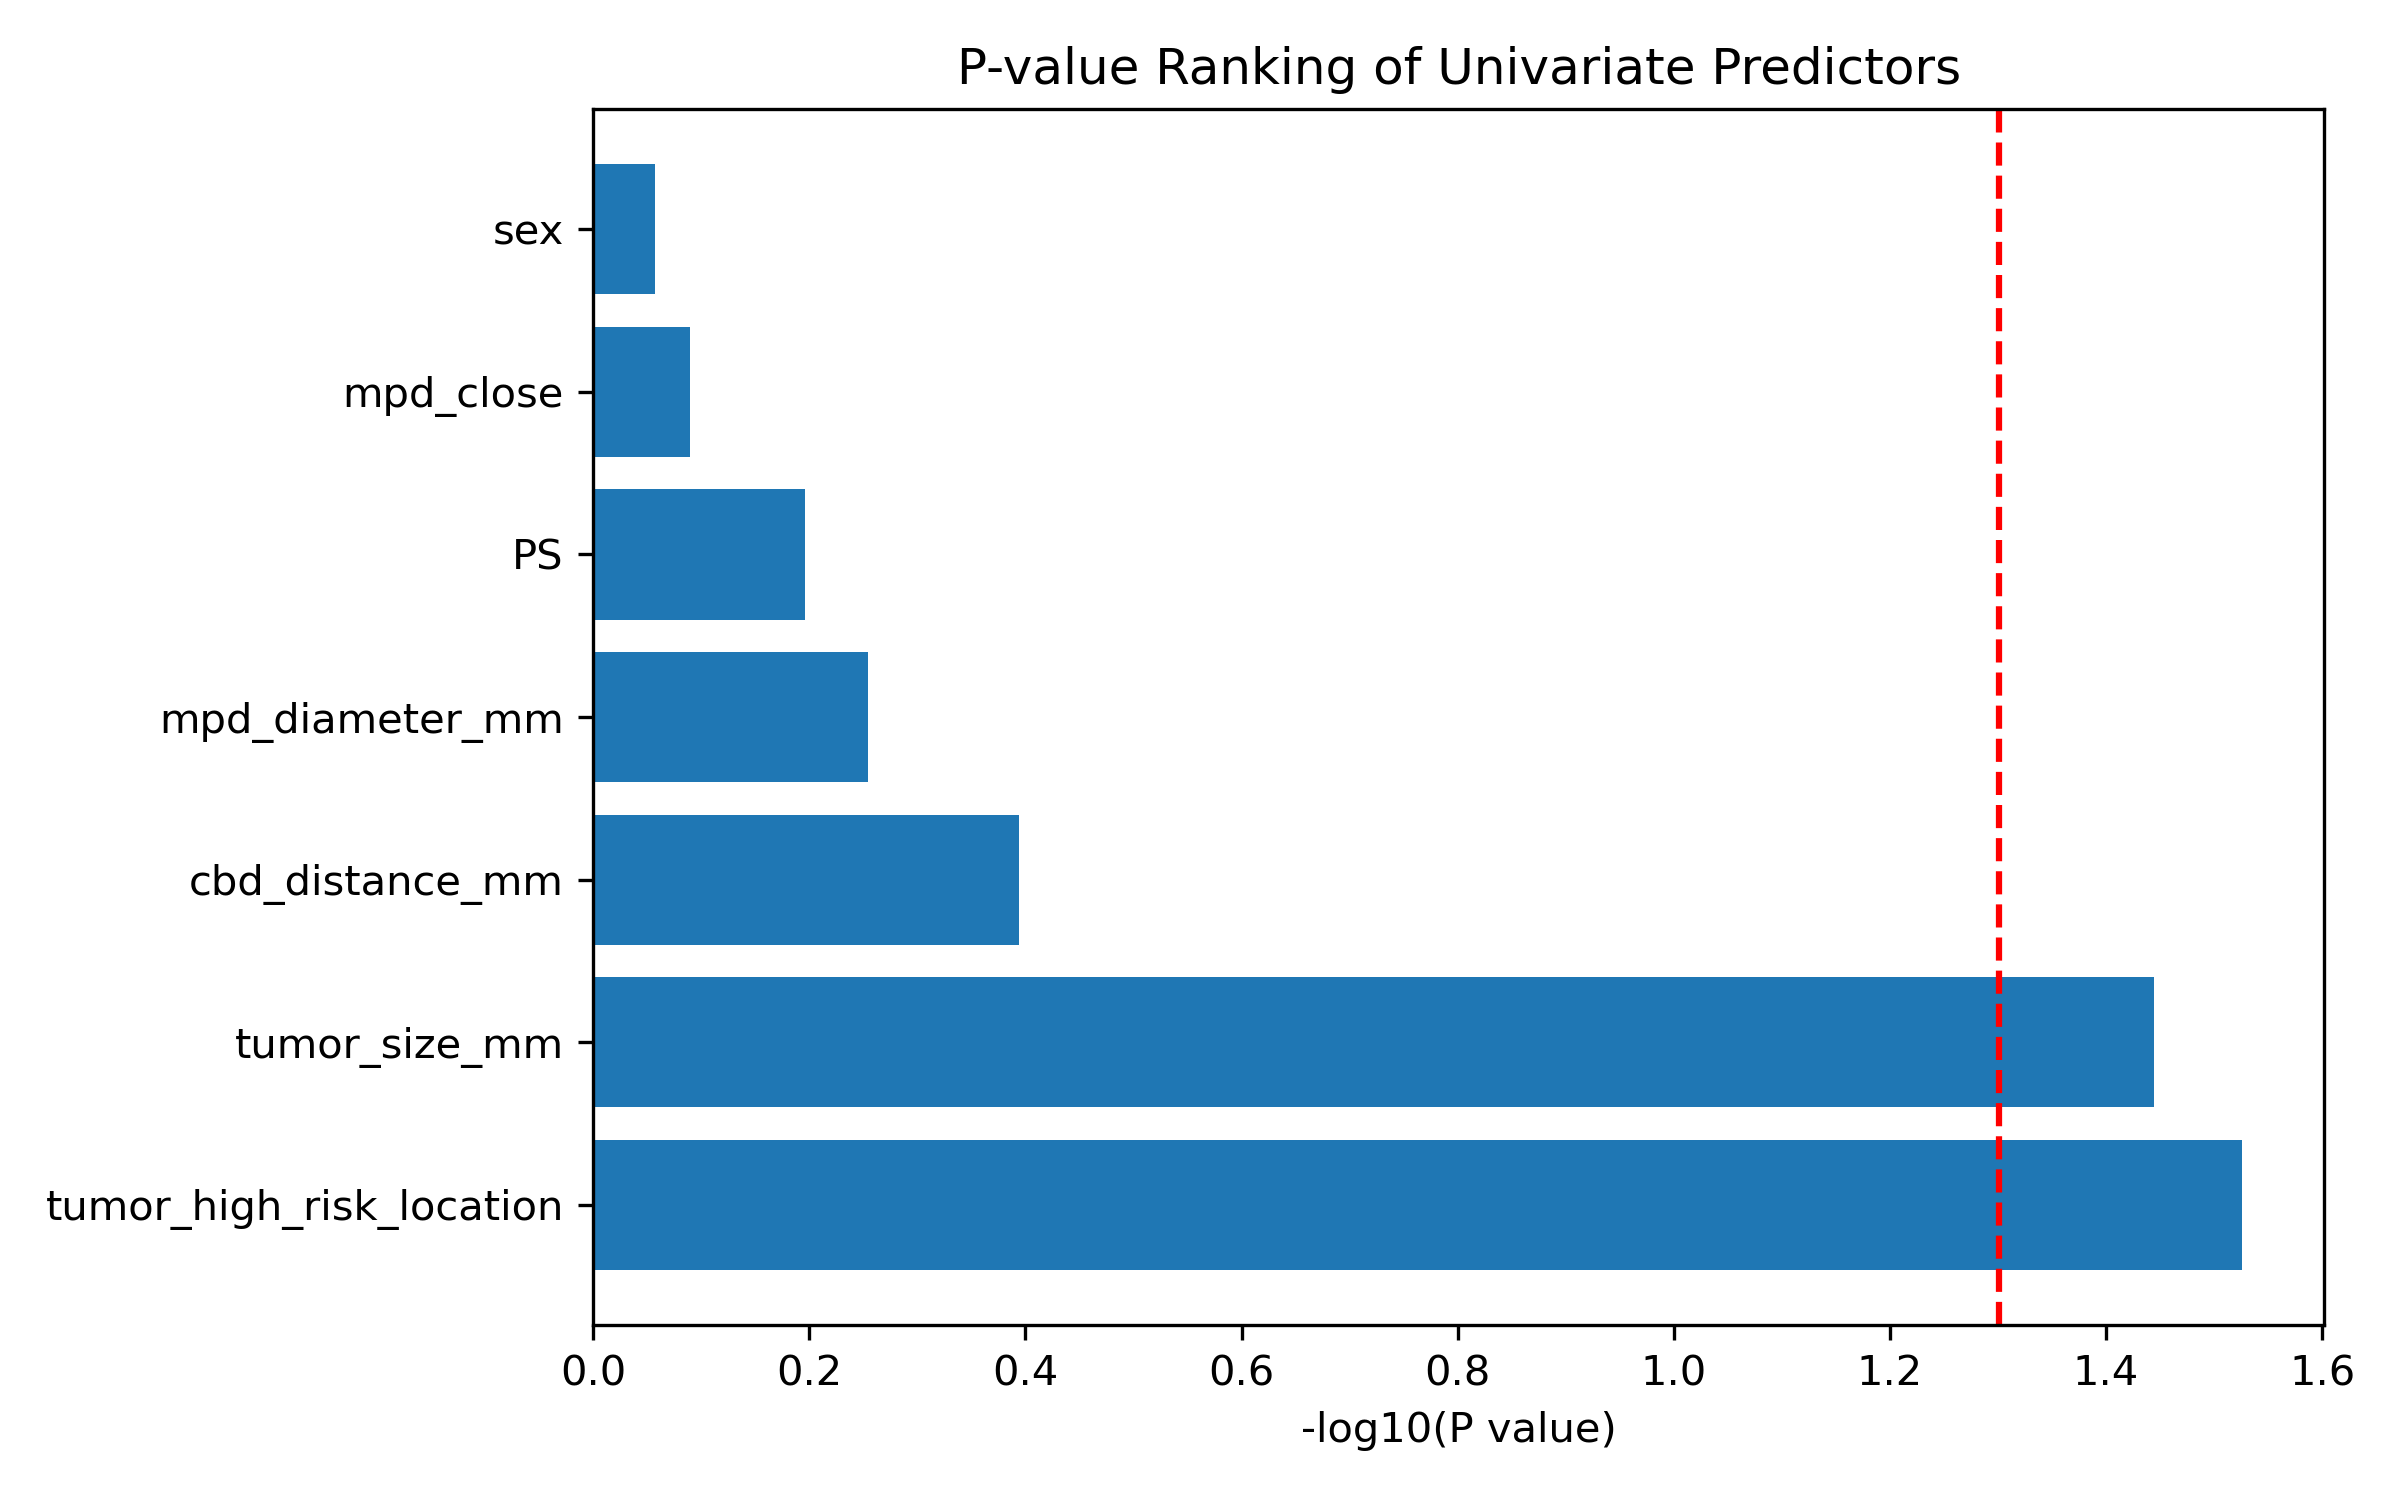
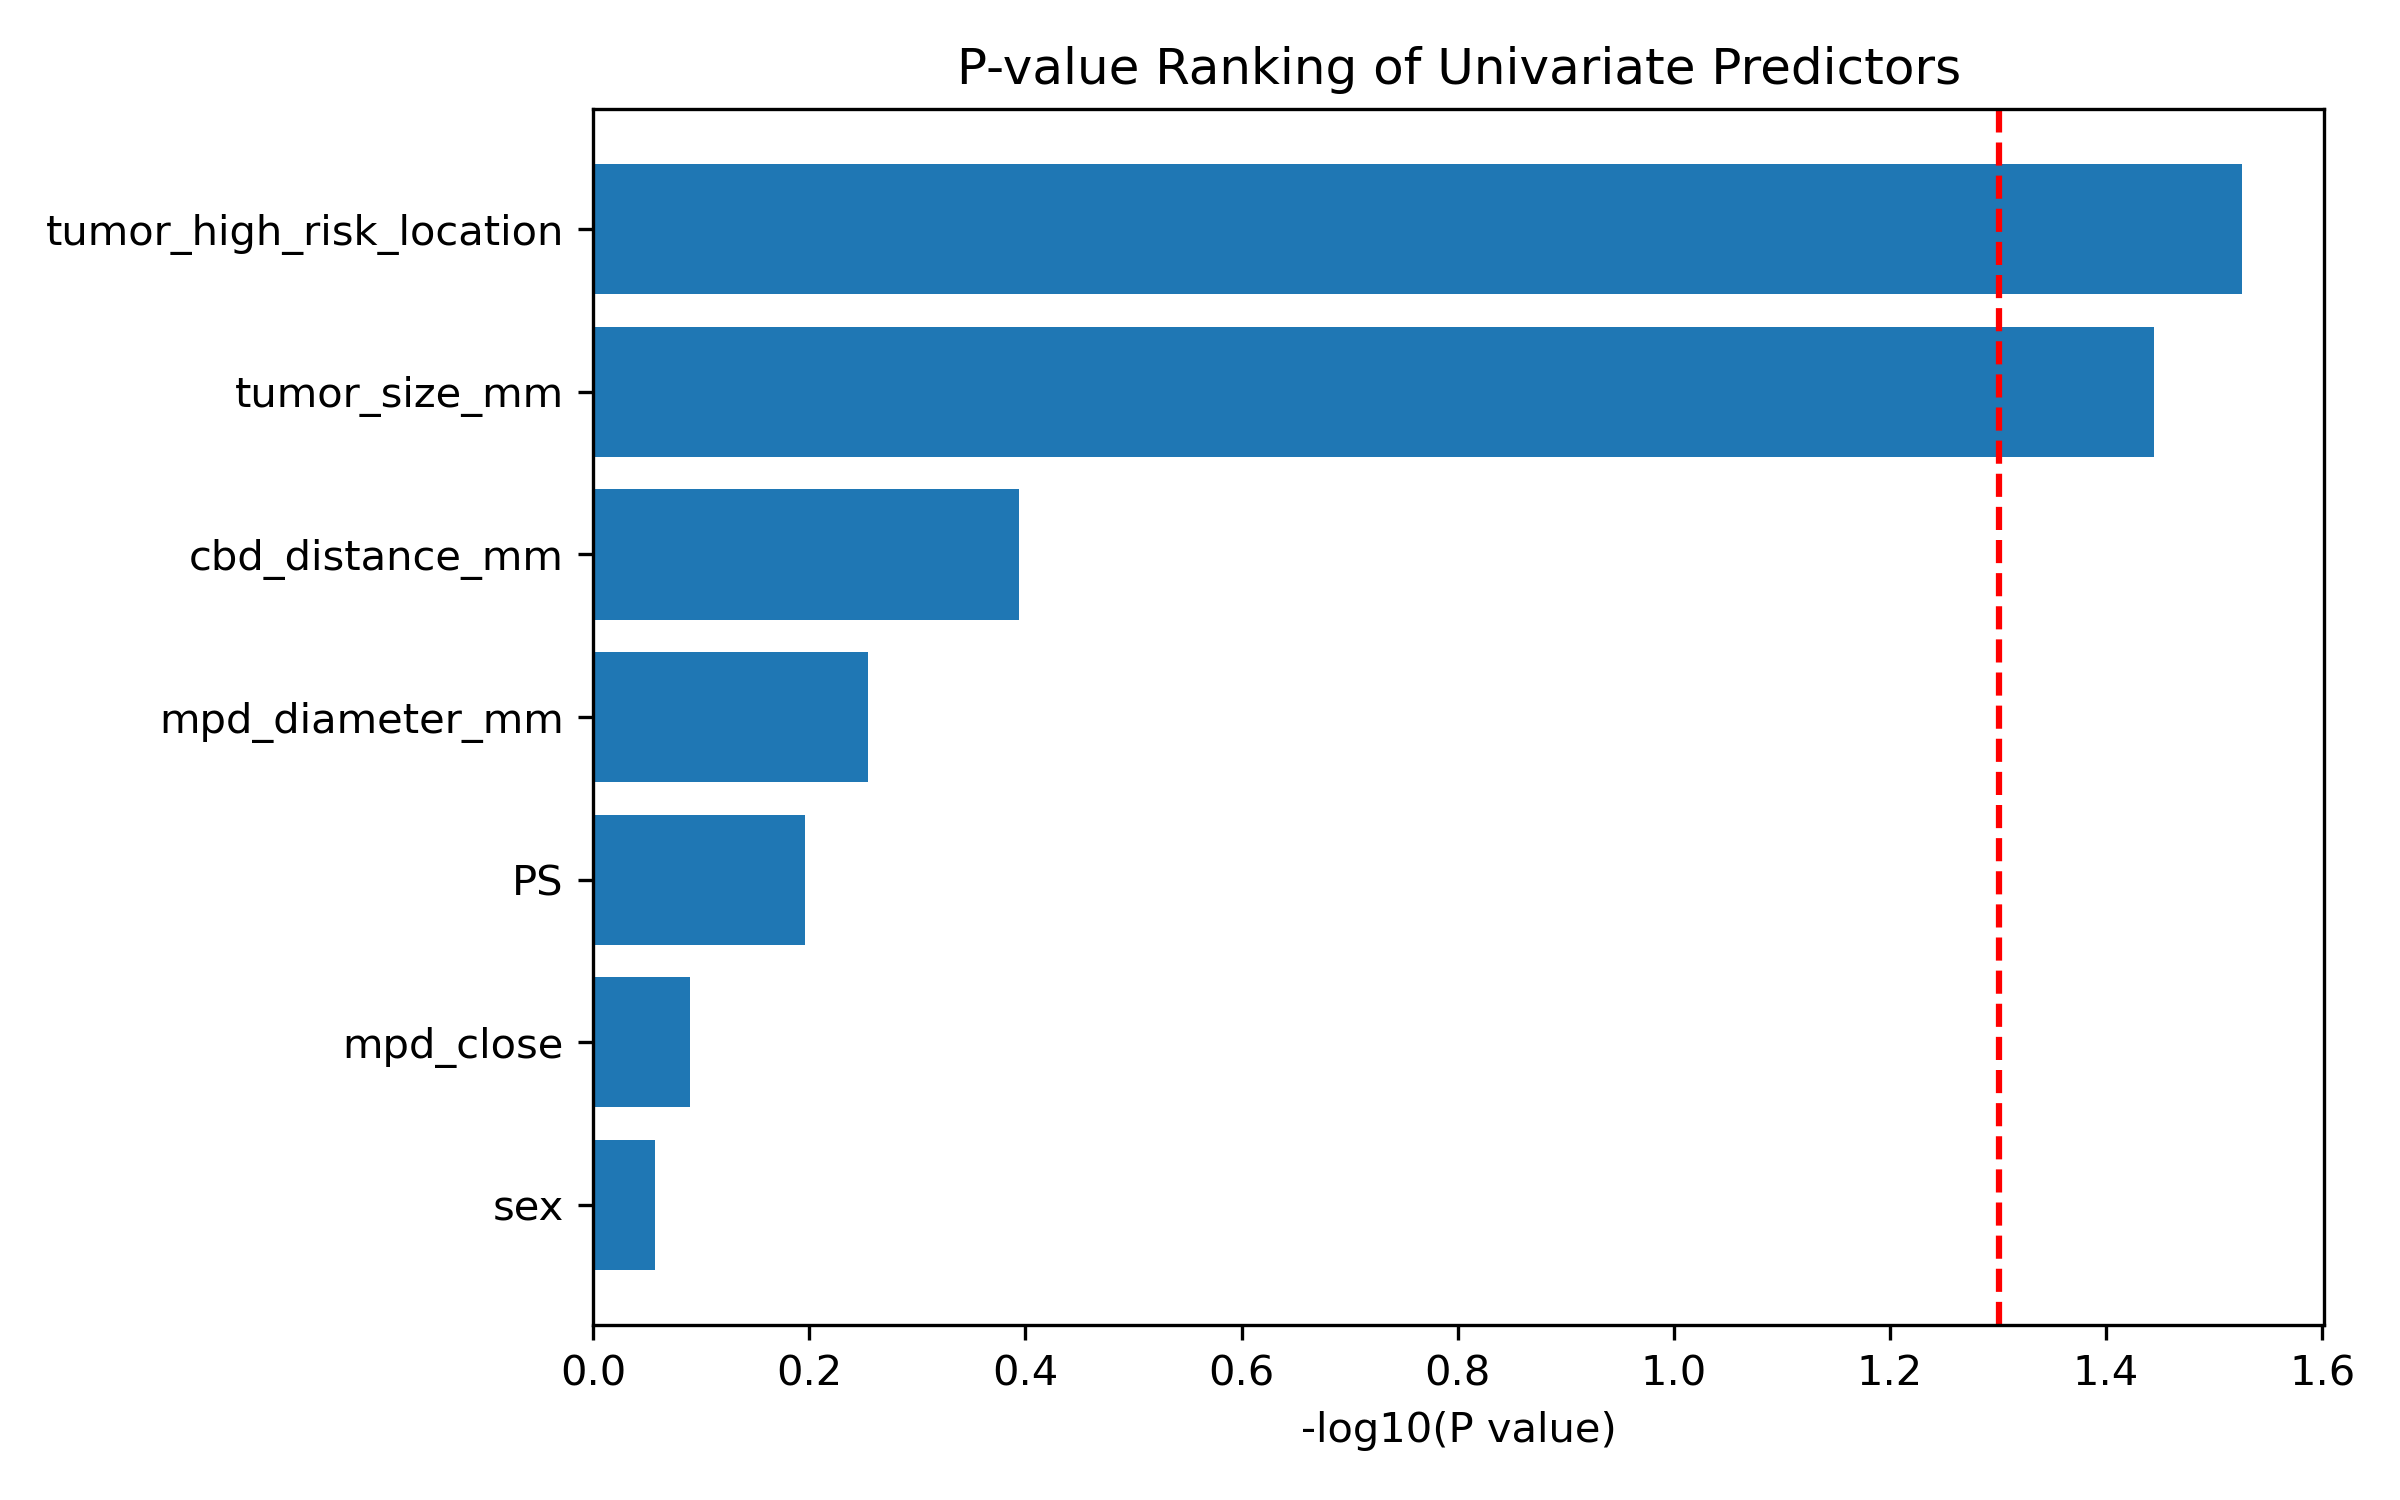
fix: reverse p-value ranking plot

diff --git a/05_univariate_logistic.py b/05_univariate_logistic.py
@@ -157,7 +157,7 @@ def plot_forest(table):
 
 def plot_pvalue_ranking(table):
 
-    df = table.sort_values("P")
+    df = table.sort_values("P", ascending=False)
 
     plt.figure(figsize=(8, 5))
 
